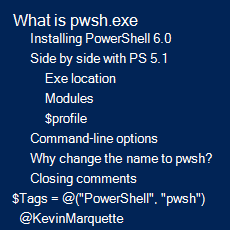
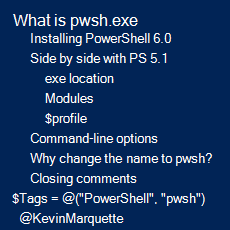
Update headding

Changed region(s): [[0.1826, 0.3043, 0.5174, 0.3652]]

diff --git a/_posts/2017-12-29-Powershell-what-is-pwsh.md b/_posts/2017-12-29-Powershell-what-is-pwsh.md
@@ -39,7 +39,7 @@ PowerShell 6.0 does not replace PowerShell 5.1 on your system. Instead, they ins
 
 It is worth pointing out that not only did the name of the executable change, but several of the folder locations also changed. Let's take a look at some of those changes.
 
-## Exe location
+## exe location
 
 First is the install location for the executable.
 
